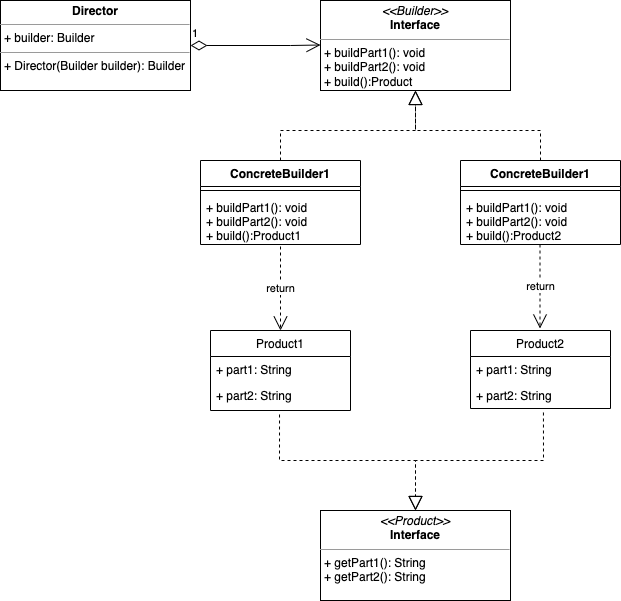
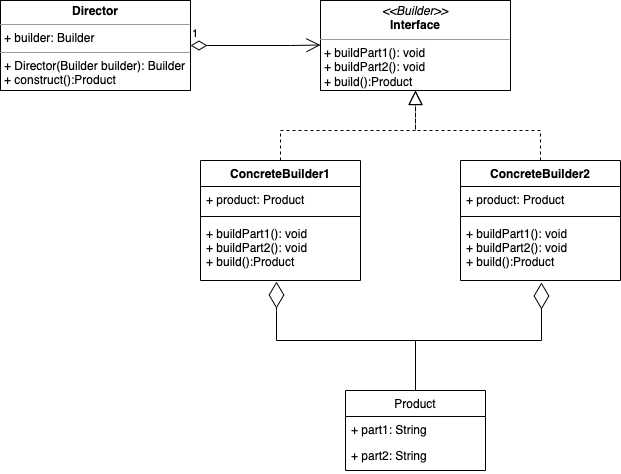
建造者模式文档完善

diff --git a/src/main/java/com/hello/designPattern/BuilderPattern/builder/LowMacBookBuilder.java b/src/main/java/com/hello/designPattern/BuilderPattern/builder/LowMacBookBuilder.java
@@ -5,33 +5,33 @@ import com.hello.designPattern.BuilderPattern.model.MacBook;
 
 public class LowMacBookBuilder implements MacBookBuilder {
 
-    private MacBook macBook;
+    private MacBook macBook = new MacBook();
 
     @Override
-    public MacBook buildMemory() {
+    public MacBookBuilder buildMemory() {
         macBook.setMemory("安装16G运行内存");
-        return macBook;
+        return this;
     }
 
     @Override
-    public MacBook buildSlug() {
+    public MacBookBuilder buildSlug() {
         macBook.setSlug("安装M1Pro芯片");
-        return macBook;
+        return this;
     }
 
     @Override
-    public MacBook buildCpu() {
+    public MacBookBuilder buildCpu() {
         macBook.setCpu("安装10核中央处理器");
-        return macBook;
+        return this;
     }
 
     @Override
-    public MacBook buildDisk() {
+    public MacBookBuilder buildDisk() {
         macBook.setDisk("安装512G固态硬盘");
-        return macBook;
+        return this;
     }
 
-    public LowMacBookBuilder(MacBook macBook) {
-        this.macBook = macBook;
+    public MacBook build(){
+        return macBook;
     }
 }

diff --git a/src/main/java/com/hello/designPattern/BuilderPattern/builder/MiddleMacBookBuilder.java b/src/main/java/com/hello/designPattern/BuilderPattern/builder/MiddleMacBookBuilder.java
@@ -7,30 +7,30 @@ public class MiddleMacBookBuilder implements MacBookBuilder {
     private MacBook macBook;
 
     @Override
-    public MacBook buildMemory() {
+    public MacBookBuilder buildMemory() {
         macBook.setMemory("安装16G运行内存");
-        return macBook;
+        return this;
     }
 
     @Override
-    public MacBook buildSlug() {
+    public MacBookBuilder buildSlug() {
         macBook.setSlug("安装M1Pro芯片");
-        return macBook;
+        return this;
     }
 
     @Override
-    public MacBook buildCpu() {
+    public MacBookBuilder buildCpu() {
         macBook.setCpu("安装10核中央处理器");
-        return macBook;
+        return this;
     }
 
     @Override
-    public MacBook buildDisk() {
+    public MacBookBuilder buildDisk() {
         macBook.setDisk("安装1TB固态硬盘");
-        return macBook;
+        return this;
     }
 
-    public MiddleMacBookBuilder(MacBook macBook) {
-        this.macBook = macBook;
+    public MacBook build(){
+        return macBook;
     }
 }

diff --git a/src/main/java/com/hello/designPattern/BuilderPattern/builder/HighMacBookBuilder.java b/src/main/java/com/hello/designPattern/BuilderPattern/builder/HighMacBookBuilder.java
@@ -5,8 +5,8 @@ import com.hello.designPattern.BuilderPattern.model.MacBook;
 
 public class HighMacBookBuilder implements MacBookBuilder {
 
-    private MacBook macBook;
-
+    private MacBook macBook = new MacBook();
+    
     @Override
     public MacBookBuilder buildMemory() {
         macBook.setMemory("安装32G运行内存");
@@ -27,11 +27,11 @@ public class HighMacBookBuilder implements MacBookBuilder {
 
     @Override
     public MacBookBuilder buildDisk() {
-        macBook.setDisk("1TB");
+        macBook.setDisk("安装1TB固态硬盘");
         return this;
     }
 
-    public HighMacBookBuilder(MacBook macBook) {
-        this.macBook = macBook;
+    public MacBook build(){
+        return macBook;
     }
 }

diff --git a/src/test/java/com/hello/designPattern/singletonPattern/BuilderPatternTest.java b/src/test/java/com/hello/designPattern/singletonPattern/BuilderPatternTest.java
@@ -1,0 +1,16 @@
+package com.hello.designPattern.singletonPattern;
+
+import com.hello.designPattern.BuilderPattern.builder.HighMacBookBuilder;
+import com.hello.designPattern.BuilderPattern.director.Director;
+import com.hello.designPattern.BuilderPattern.model.MacBook;
+import org.junit.Test;
+
+public class BuilderPatternTest {
+
+    @Test
+    public void builderPatternTest(){
+        Director director = new Director(new HighMacBookBuilder());
+        MacBook macBook = director.construct();
+        System.out.println(macBook.toString());
+    }
+}

diff --git a/src/main/java/com/hello/designPattern/BuilderPattern/interfaces/MacBookBuilder.java b/src/main/java/com/hello/designPattern/BuilderPattern/interfaces/MacBookBuilder.java
@@ -3,8 +3,12 @@ package com.hello.designPattern.BuilderPattern.interfaces;
 import com.hello.designPattern.BuilderPattern.model.MacBook;
 
 public interface MacBookBuilder {
-     MacBook buildMemory();
-     MacBook buildSlug();
-     MacBook buildCpu();
-     MacBook buildDisk();
+
+     MacBookBuilder buildMemory();
+     MacBookBuilder buildSlug();
+     MacBookBuilder buildCpu();
+     MacBookBuilder buildDisk();
+
+
+      MacBook build();
 }

diff --git a/src/main/java/com/hello/designPattern/BuilderPattern/director/Director.java b/src/main/java/com/hello/designPattern/BuilderPattern/director/Director.java
@@ -10,7 +10,7 @@ public class Director {
         this.macBookBuilder = macBookBuilder;
     }
 
-    MacBook build(){
-        macBookBuilder.buildMemory()
+    public MacBook construct(){
+        return macBookBuilder.buildMemory().buildDisk().buildCpu().buildSlug().build();
     }
 }

diff --git a/src/main/resources/创建型模式/04-建造者模式.md b/src/main/resources/创建型模式/04-建造者模式.md
@@ -2,7 +2,7 @@
 
 ## 介绍
 
-建造者模式是创建型模式之一，使用多个简单的对象创建一个复杂的对象，定义不同的构造类使得相同的构建过程可以创建不同的对象
+建造者模式是创建型模式之一，使用多个简单的对象创建一个复杂的对象，定义不同的构造类使得相同的构建过程可以创建不同的对象。同工厂模式不同，工厂模式重点关注的是对象的创建过程，建造者模式重点关注的是对象的组装过程。
 
 ## 模块
 
@@ -13,11 +13,190 @@
 
 ![结构图](/Users/linmeng/IdeaProjects/hello-design-pattern/src/main/resources/images/04-建造者模式.png)
 
-## 结构代码演示
+
 
 ## 场景
 
+在需求开发中，当需要创建一个复杂对象时，需要对这个对象的各个子部件创建并组合。例如苹果电脑，我们不能自己组装电脑，而是在官网上下单，由专门的技术人员根据我们选择的配置进行组装。电脑里面的部件是固定数量的，但是各个部件的配置是不一样的。面临剧烈的需求变化，复杂对象的各个部件是会经常变化的，但是对象的各个结构是不变的
+
+## 结构代码演示
+
+接下来我们就以我手中 M1Pro 32G 1T  10核的MacBook Pro举例，嘿嘿。按照苹果官网有高中低三档配置，我使用高中低三个建造者进行电脑的各个组件的创建，然后让指导者进行组装
+
+```
+# 产品 macBook
+public class MacBook {
+    private String memory;
+    private String slug;
+    private String cpu;
+    private String disk;
+
+    // 省略get set
+}
+# 建造者接口
+import com.hello.designPattern.BuilderPattern.model.MacBook;
+
+public interface MacBookBuilder {
+
+     MacBookBuilder buildMemory();
+     MacBookBuilder buildSlug();
+     MacBookBuilder buildCpu();
+     MacBookBuilder buildDisk();
+
+
+      MacBook build();
+}
+# 高中低 三个建造者
+import com.hello.designPattern.BuilderPattern.interfaces.MacBookBuilder;
+import com.hello.designPattern.BuilderPattern.model.MacBook;
+
+public class HighMacBookBuilder implements MacBookBuilder {
+
+    private MacBook macBook = new MacBook();
+    
+    @Override
+    public MacBookBuilder buildMemory() {
+        macBook.setMemory("安装32G运行内存");
+        return this;
+    }
+
+    @Override
+    public MacBookBuilder buildSlug() {
+        macBook.setSlug("安装M1X芯片");
+        return this;
+    }
+
+    @Override
+    public MacBookBuilder buildCpu() {
+        macBook.setCpu("安装10核中央处理器");
+        return this;
+    }
+
+    @Override
+    public MacBookBuilder buildDisk() {
+        macBook.setDisk("安装1TB固态硬盘");
+        return this;
+    }
+
+    public MacBook build(){
+        return macBook;
+    }
+}
+
+import com.hello.designPattern.BuilderPattern.interfaces.MacBookBuilder;
+import com.hello.designPattern.BuilderPattern.model.MacBook;
+
+public class MiddleMacBookBuilder implements MacBookBuilder {
+    private MacBook macBook;
+
+    @Override
+    public MacBookBuilder buildMemory() {
+        macBook.setMemory("安装16G运行内存");
+        return this;
+    }
+
+    @Override
+    public MacBookBuilder buildSlug() {
+        macBook.setSlug("安装M1Pro芯片");
+        return this;
+    }
+
+    @Override
+    public MacBookBuilder buildCpu() {
+        macBook.setCpu("安装10核中央处理器");
+        return this;
+    }
+
+    @Override
+    public MacBookBuilder buildDisk() {
+        macBook.setDisk("安装1TB固态硬盘");
+        return this;
+    }
+
+    public MacBook build(){
+        return macBook;
+    }
+}
+
+import com.hello.designPattern.BuilderPattern.interfaces.MacBookBuilder;
+import com.hello.designPattern.BuilderPattern.model.MacBook;
+
+public class LowMacBookBuilder implements MacBookBuilder {
+
+    private MacBook macBook = new MacBook();
+
+    @Override
+    public MacBookBuilder buildMemory() {
+        macBook.setMemory("安装16G运行内存");
+        return this;
+    }
+
+    @Override
+    public MacBookBuilder buildSlug() {
+        macBook.setSlug("安装M1Pro芯片");
+        return this;
+    }
+
+    @Override
+    public MacBookBuilder buildCpu() {
+        macBook.setCpu("安装10核中央处理器");
+        return this;
+    }
+
+    @Override
+    public MacBookBuilder buildDisk() {
+        macBook.setDisk("安装512G固态硬盘");
+        return this;
+    }
+
+    public MacBook build(){
+        return macBook;
+    }
+}
+# 指导者
+import com.hello.designPattern.BuilderPattern.interfaces.MacBookBuilder;
+import com.hello.designPattern.BuilderPattern.model.MacBook;
+
+public class Director {
+    private MacBookBuilder macBookBuilder;
+
+    public Director(MacBookBuilder macBookBuilder) {
+        this.macBookBuilder = macBookBuilder;
+    }
+
+    public MacBook construct(){
+        return macBookBuilder.buildMemory().buildDisk().buildCpu().buildSlug().build();
+    }
+}
+```
+
+测试方法
+
+```
+package com.hello.designPattern.singletonPattern;
+
+import com.hello.designPattern.BuilderPattern.builder.HighMacBookBuilder;
+import com.hello.designPattern.BuilderPattern.director.Director;
+import com.hello.designPattern.BuilderPattern.model.MacBook;
+import org.junit.Test;
+
+public class BuilderPatternTest {
+
+    @Test
+    public void builderPatternTest(){
+        Director director = new Director(new HighMacBookBuilder());
+        MacBook macBook = director.construct();
+        System.out.println(macBook.toString());
+    }
+}
+
+```
+
 ## 总结
+
+首先，建造者模式的封装性很好。使用建造者模式可以有效的封装变化，在使用建造者模式的场景中，一般产品类和建造者类是比较稳定的，因此，将主要的业务逻辑封装在导演类中对整体而言可以取得比较好的稳定性。
+
+   其次，建造者模式很容易进行扩展。如果有新的需求，通过实现一个新的建造者类就可以完成，基本上不用修改之前已经测试通过的代码，因此也就不会对原有功能引入风险。
 
 ## 参考链接
 
@@ -25,3 +204,4 @@
 
 [java实现建造者模式（Builder Pattern）](https://www.jb51.net/article/149471.htm)
 
+[建造者模式](https://baike.baidu.com/item/%E5%BB%BA%E9%80%A0%E8%80%85%E6%A8%A1%E5%BC%8F/3229729?fr=aladdin)
